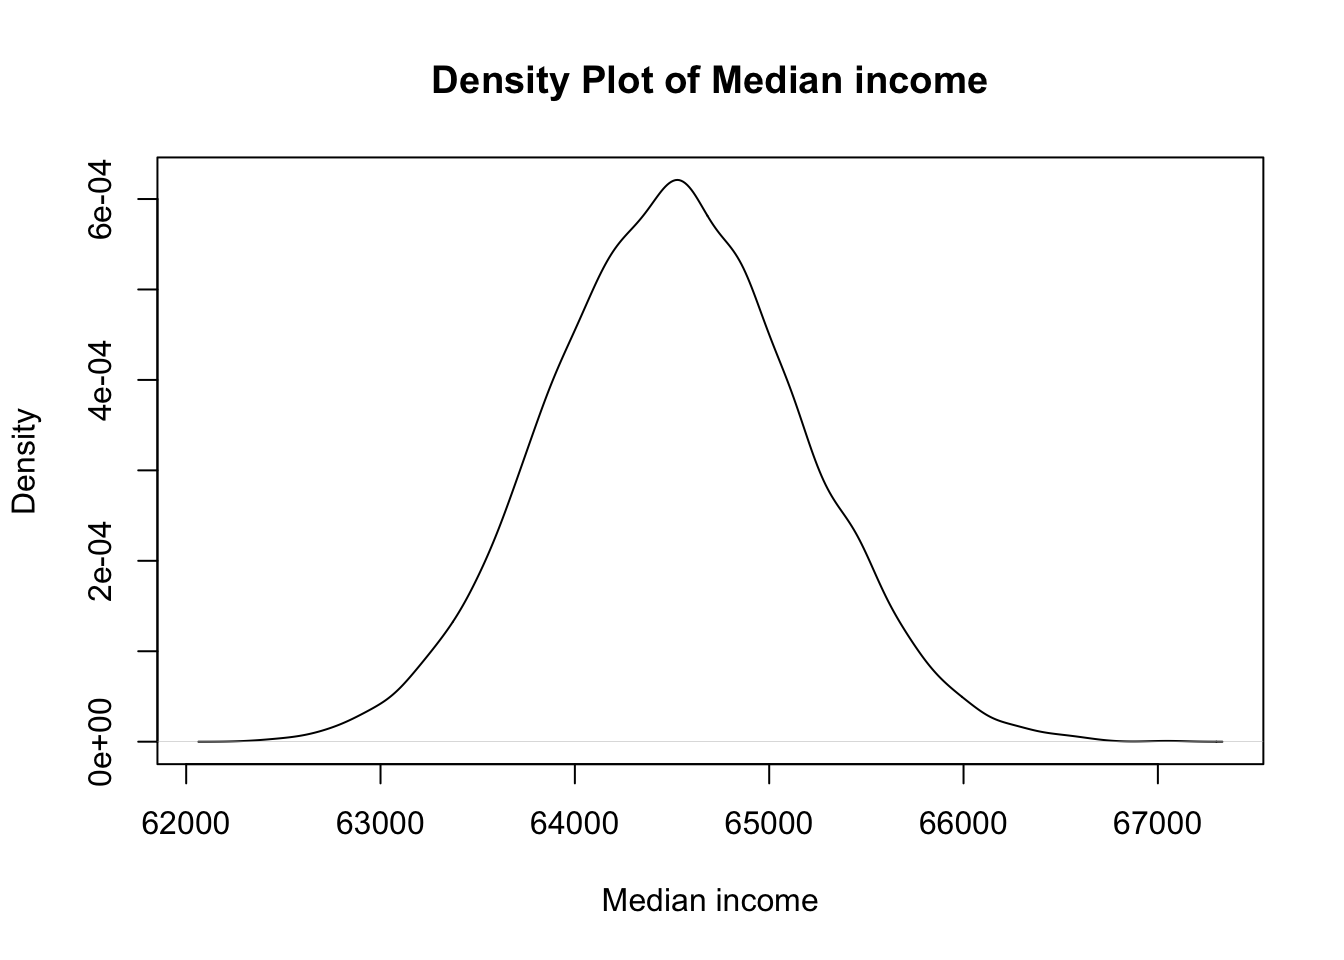
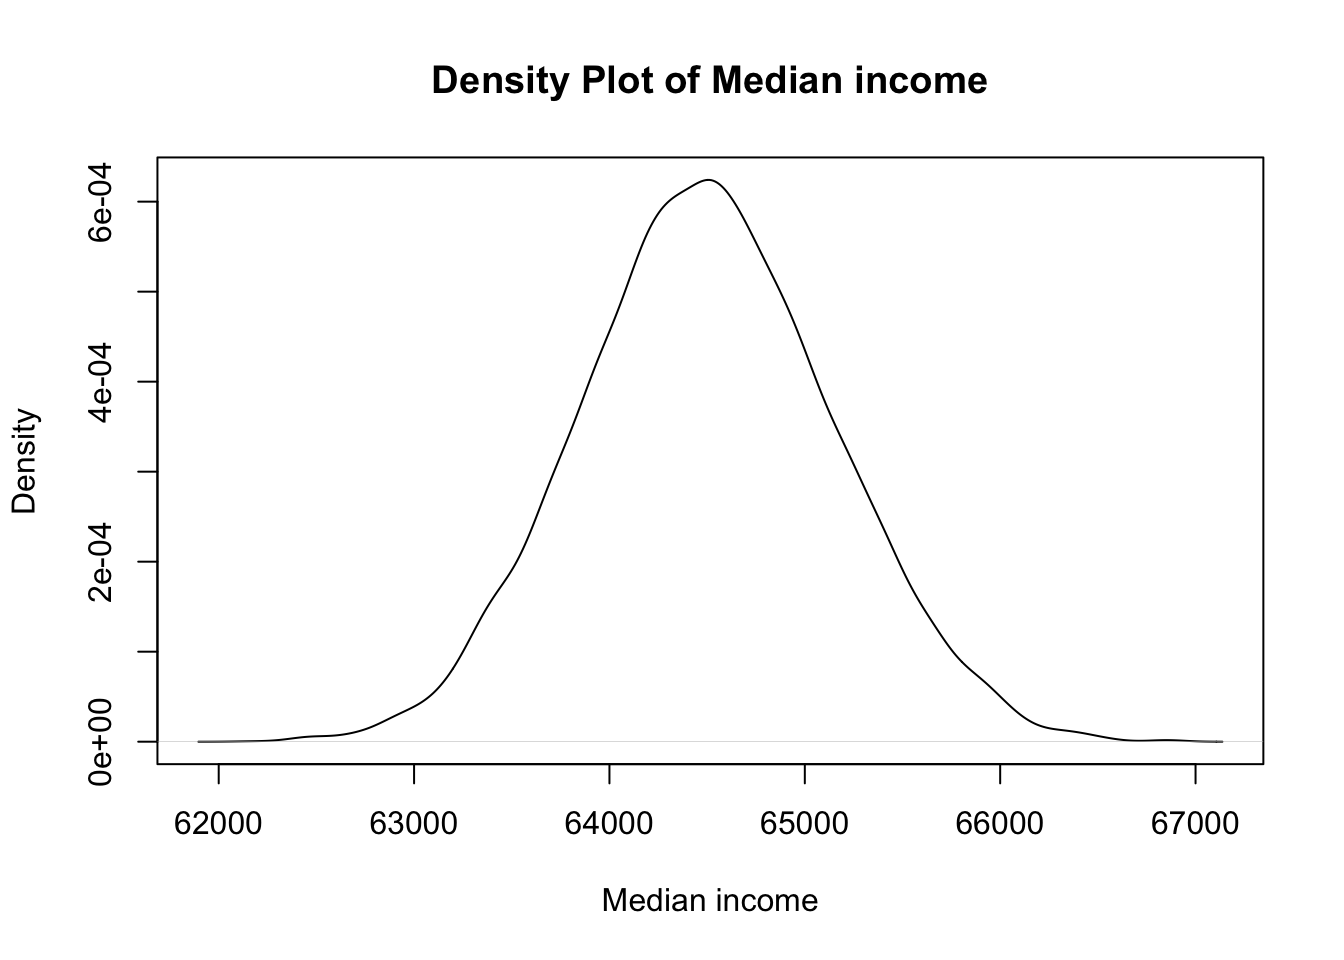
712246

diff --git a/docs/posts/montecarlo.html b/docs/posts/montecarlo.html
@@ -1977,7 +1977,7 @@ Income distribution is not normal
 </details>
 <div class="cell-output cell-output-stdout">
 <pre><code>     Min.   1st Qu.    Median      Mean   3rd Qu.      Max. 
-   209203    295454    343293    571651    435488 262332184 </code></pre>
+   205478    295040    342172    590042    436580 274368316 </code></pre>
 </div>
 <details open="" class="code-fold">
 <summary>Code</summary>
@@ -1985,7 +1985,7 @@ Income distribution is not normal
 </details>
 <div class="cell-output cell-output-stdout">
 <pre><code>   Min. 1st Qu.  Median    Mean 3rd Qu.    Max. 
-  62341   64070   64510   64512   64944   67054 </code></pre>
+  62172   64066   64492   64499   64932   66861 </code></pre>
 </div>
 <details open="" class="code-fold">
 <summary>Code</summary>
@@ -1993,7 +1993,7 @@ Income distribution is not normal
 </details>
 <div class="cell-output cell-output-stdout">
 <pre><code>     Min.   1st Qu.    Median      Mean   3rd Qu.      Max. 
-9.014e+05 3.267e+06 5.639e+06 2.780e+07 1.186e+07 2.621e+10 </code></pre>
+7.604e+05 3.291e+06 5.563e+06 2.966e+07 1.193e+07 2.736e+10 </code></pre>
 </div>
 </div>
 </section>

diff --git a/docs/posts.html b/docs/posts.html
@@ -1946,7 +1946,7 @@ Categories
 <span class="listing-categories">art</span>
 </td>
 </tr>
-<tr data-index="3" data-categories="bWVkaWNpbmU=" data-listing-date-sort="1733509800000" data-listing-file-modified-sort="1733589625994" data-listing-date-modified-sort="NaN" data-listing-reading-time-sort="8" data-listing-word-count-sort="1447" data-listing-title-sort="Problem of life span and strength" data-listing-filename-sort="Fragility.qmd">
+<tr data-index="3" data-categories="bWVkaWNpbmU=" data-listing-date-sort="1733509800000" data-listing-file-modified-sort="1733591930990" data-listing-date-modified-sort="NaN" data-listing-reading-time-sort="8" data-listing-word-count-sort="1444" data-listing-title-sort="Problem of life span and strength" data-listing-filename-sort="Fragility.qmd">
 <td>
 <span class="listing-date">Dec 7, 2024</span>
 </td>

diff --git a/docs/Biomedical/Research Methodology/wrangling.html b/docs/Biomedical/Research Methodology/wrangling.html
@@ -3271,9 +3271,9 @@ Record
 <div class="cell-output cell-output-stdout">
 <pre><code>     age   sex  class
    &lt;int&gt; &lt;int&gt; &lt;fctr&gt;
-1:     1     0  child
-2:     2     0  child
-3:     3     0  child
+1:     1     1  child
+2:     2     1  child
+3:     3     1  child
 4:     4     0  child
 5:     5     0  child
 6:     6     1  child</code></pre>
@@ -3294,9 +3294,9 @@ Record
 <pre><code>Key: &lt;age&gt;
      age      0      1
    &lt;int&gt; &lt;fctr&gt; &lt;fctr&gt;
-1:     1  child   &lt;NA&gt;
-2:     2  child   &lt;NA&gt;
-3:     3  child   &lt;NA&gt;
+1:     1   &lt;NA&gt;  child
+2:     2   &lt;NA&gt;  child
+3:     3   &lt;NA&gt;  child
 4:     4  child   &lt;NA&gt;
 5:     5  child   &lt;NA&gt;
 6:     6   &lt;NA&gt;  child</code></pre>

diff --git a/docs/posts/Fragility.html b/docs/posts/Fragility.html
@@ -1927,7 +1927,7 @@ J &lt;--&gt; H
 <li><strong>PGC-1α</strong> (Promotes mitochondrial biogenesis).</li>
 <li><strong>CaMK</strong> (Calmodulin-dependent kinases).</li>
 <li><strong>Calcineurin</strong>.</li>
-<li><strong><code>AMPK</code></strong><code>(Adenosine monophosphate-activated protein kinase)</code>.</li>
+<li><strong><code>AMPK</code></strong>.</li>
 <li><strong>MAPKs</strong> (Mitogen-activated protein kinases, e.g., ERK1/2, p38 MAPK).</li>
 </ul></li>
 <li>Leads to metabolic adaptations like mitochondrial biogenesis and angiogenesis, enhancing endurance capacity.</li>
